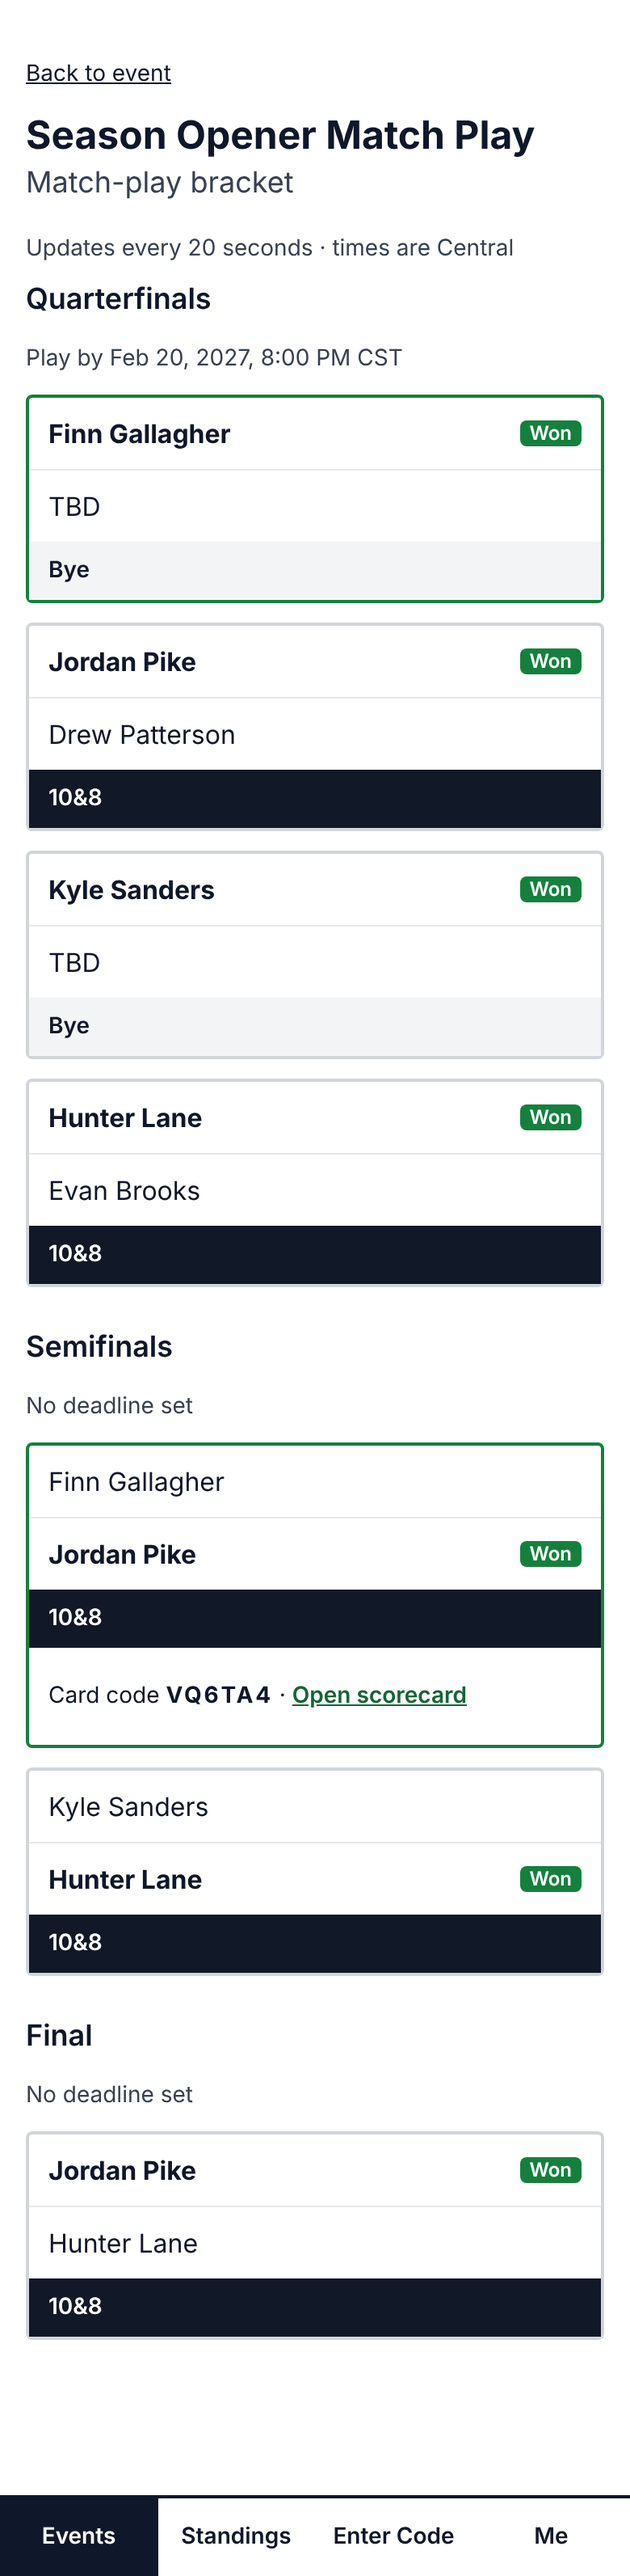
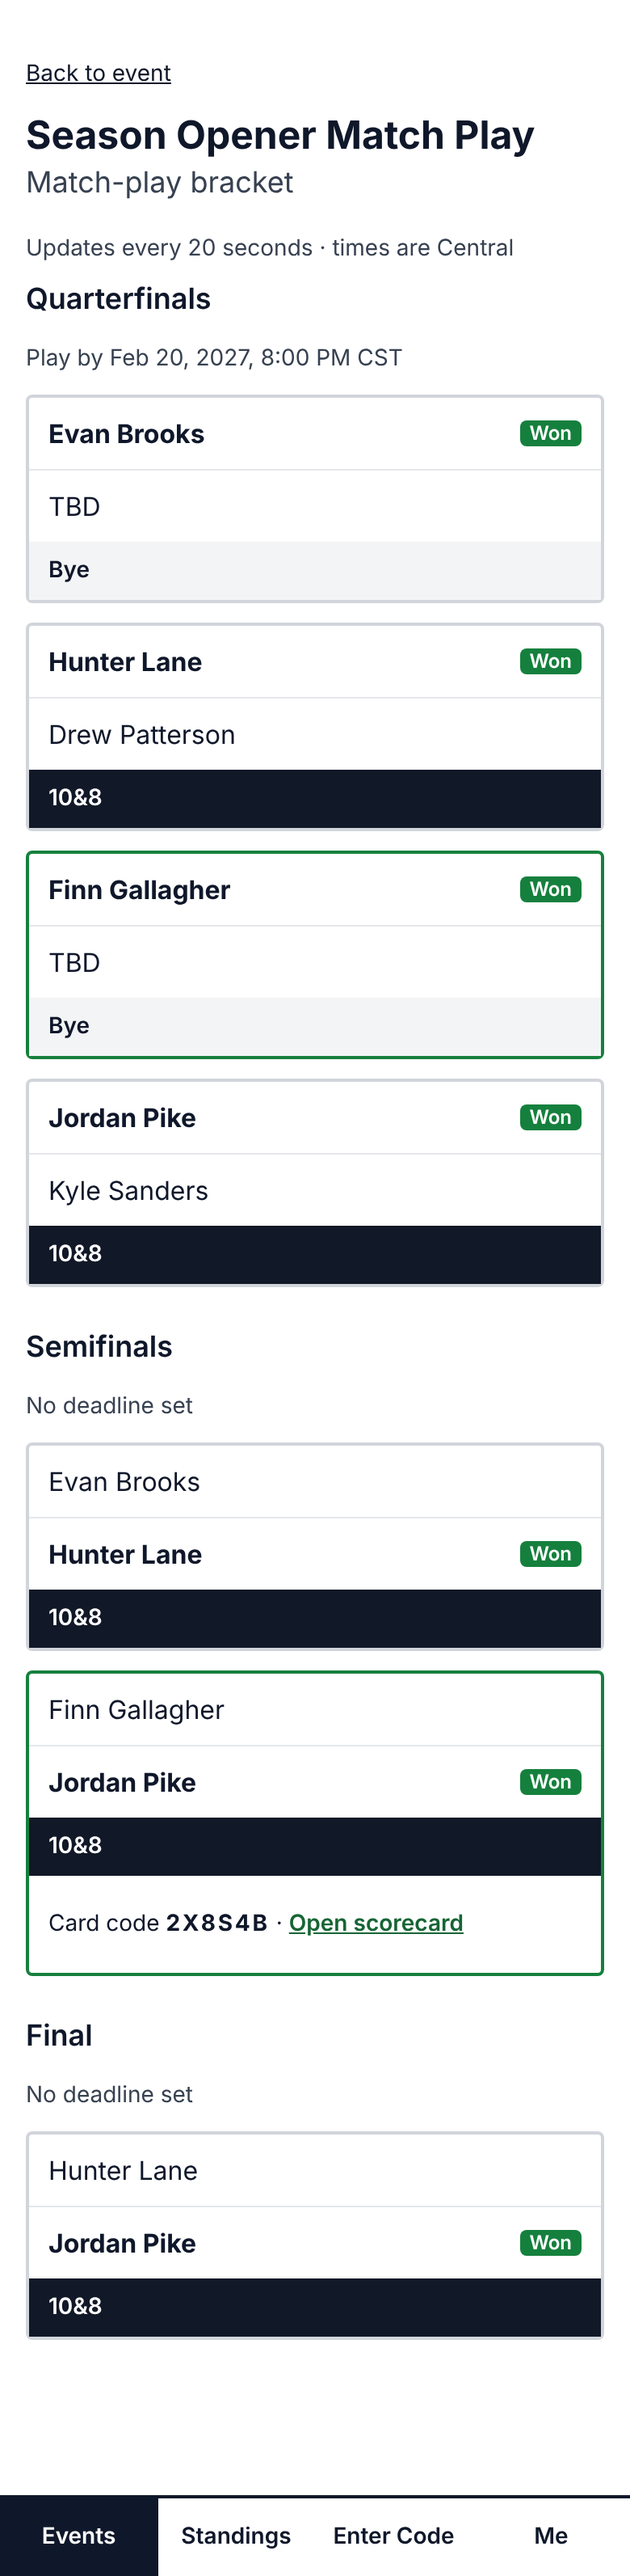
fix(events): confirm season changes, remove orphaned rounds; docs and verification
Claude-Session: https://claude.ai/code/session_0187sESXVTZDKtGNzMULCxre

diff --git a/apps/web/src/actions/events.ts b/apps/web/src/actions/events.ts
@@ -52,6 +52,7 @@ function snapshot(ev: Omit<EventRow, 'id' | 'status'>, rounds: Omit<RoundRow, 'i
  */
 function resultsChanges(current: EventRow, rounds: RoundRow[], e: EventParsed): string[] {
   const out: string[] = [];
+  if (current.season_id !== e.seasonId) out.push('season');
   if (current.event_type !== e.eventType) out.push('event type');
   if ((current.format === 'match_play' ? 'match_play' : 'stroke') !== e.format) out.push('format');
   if ((current.handicap_mode === 'gross' ? 'gross' : 'net') !== e.handicapMode) out.push('handicap mode');
@@ -74,8 +75,10 @@ function resultsChanges(current: EventRow, rounds: RoundRow[], e: EventParsed): 
  * Every field stays editable in every status (mistakes are found late). A save of a non-draft
  * event is audited with before/after. When the event is in_progress or final and a
  * results-affecting field changed (handicap mode, allowance, basis, match strokes, format,
- * event type, a round's tee or kind), the save needs `confirmResultsChange: true`; without it
- * the result is 'needs_confirm' (listing the fields) and nothing is written.
+ * event type, season, a round's tee or kind), the save needs `confirmResultsChange: true`; without it
+ * the result is 'needs_confirm' (listing the fields) and nothing is written. A round the form
+ * removed or renumbered is deleted when it has no groups; with groups the save is refused
+ * ('round_has_groups') before any write.
  */
 export async function saveEvent(input: EventInput): Promise<ActionResult<{ id: string }>> {
   const { player } = await requireCommissioner();
@@ -119,6 +122,26 @@ export async function saveEvent(input: EventInput): Promise<ActionResult<{ id: s
     const current = cur as EventRow;
     const rounds = await loadEventRounds(admin, eventId);
 
+    // Rounds the form no longer has (removed or renumbered): empty ones are deleted below, but one with
+    // groups is refused up front, before any write, so a round with a tee sheet is never orphaned.
+    const keptNumbers = new Set(e.rounds.map((r) => r.roundNumber));
+    const removed = rounds.filter((r) => !keptNumbers.has(r.round_number));
+    if (removed.length) {
+      const { data: grouped, error: gErr } = await admin
+        .from('groups')
+        .select('id, round_id')
+        .in('round_id', removed.map((r) => r.id));
+      if (gErr) throw new Error(gErr.message);
+      const withGroups = removed.filter((r) => ((grouped ?? []) as { round_id: string }[]).some((g) => g.round_id === r.id));
+      if (withGroups.length) {
+        throw new ActionError(
+          ACT.roundHasGroups,
+          `Round ${withGroups.map((r) => r.round_number).join(', ')} already has groups, so it cannot be removed or renumbered. Remove its groups first.`,
+          withGroups.map((r) => String(r.round_number)),
+        );
+      }
+    }
+
     const changed = resultsChanges(current, rounds, e);
     const live = (RESULTS_STATUSES as readonly string[]).includes(current.status);
     if (live && changed.length && e.confirmResultsChange !== true) {
@@ -140,11 +163,15 @@ export async function saveEvent(input: EventInput): Promise<ActionResult<{ id: s
     if (error) throw new Error(error.message);
     if (!updated) throw new ActionError(ACT.statusConflict, 'Event status changed concurrently; reload and retry');
 
+    if (removed.length) {
+      const { error: dErr } = await admin.from('rounds').delete().in('id', removed.map((r) => r.id));
+      if (dErr) throw new Error(dErr.message);
+    }
     const { error: rErr } = await admin.from('rounds').upsert(roundRows(eventId), { onConflict: 'event_id,round_number' });
     if (rErr) throw new Error(rErr.message);
 
     if (current.status !== 'draft') {
-      const afterRounds = rounds.map((prev) => {
+      const afterRounds = rounds.filter((prev) => keptNumbers.has(prev.round_number)).map((prev) => {
         const r = e.rounds.find((x) => x.roundNumber === prev.round_number);
         if (!r) return prev;
         return { ...prev, tee_id: r.teeId, play_date: r.playDate, kind: effectiveKind(e.format, r.roundNumber, r.kind) };

diff --git a/apps/web/test/events.test.ts b/apps/web/test/events.test.ts
@@ -234,7 +234,7 @@ describe('saveEvent after play starts (in-memory DB)', () => {
     }
     expect(db.tables.rounds!.find((x) => x.round_number === 2)).toMatchObject({ kind: 'stroke' });
   });
-  it('in_progress: name, deadline, dates, season and a new round save without confirmation, audited', async () => {
+  it('in_progress: name, deadline, dates and a new round save without confirmation, audited', async () => {
     seed('in_progress', [openGroup]);
     const r = await saveEvent(
       form({
@@ -261,6 +261,44 @@ describe('saveEvent after play starts (in-memory DB)', () => {
     });
     const after = db.tables.audit_log![0]!.after as { rounds: { round_number: number; play_date: string }[] };
     expect(after.rounds.find((x) => x.round_number === 2)?.play_date).toBe('2027-04-18');
+  });
+  it('in_progress/final: changing the season needs confirmation like the other results fields', async () => {
+    const SEASON2 = '66666666-6666-4666-8666-666666666666';
+    for (const status of ['in_progress', 'final']) {
+      seed(status, [openGroup]);
+      const r = await saveEvent(form({ seasonId: SEASON2 }));
+      expect(r).toMatchObject({ ok: false, code: ACT.needsConfirm });
+      expect((r as { fields: string[] }).fields).toContain('season');
+      expect(db.writes).toEqual([]);
+      await expect(saveEvent(form({ seasonId: SEASON2, confirmResultsChange: true }))).resolves.toMatchObject({ ok: true });
+      expect(ev()).toMatchObject({ season_id: SEASON2 });
+      expect(db.tables.audit_log![0]).toMatchObject({ after: { results_changed: ['season'], confirmed_results_change: true } });
+    }
+    seed('published'); // before play starts, a season change is free
+    await expect(saveEvent(form({ seasonId: SEASON2 }))).resolves.toMatchObject({ ok: true });
+  });
+  it('renumbering or removing a round without groups deletes the old row; with groups it is refused and nothing is written', async () => {
+    seed('published', [openGroup]); // group is on round 1
+    const renumbered = [
+      { roundNumber: 1, teeId: tee, playDate: '2027-04-10', kind: 'stroke' as const },
+      { roundNumber: 3, teeId: tee, playDate: '2027-04-17', kind: 'match' as const },
+    ];
+    await expect(saveEvent(form({ rounds: renumbered }))).resolves.toMatchObject({ ok: true });
+    expect(db.tables.rounds!.map((r) => r.round_number).sort()).toEqual([1, 3]);
+    expect(db.tables.rounds!.some((r) => r.id === ROUND2)).toBe(false);
+    expect(db.tables.audit_log![0]!.after).toMatchObject({ rounds: [{ round_number: 1 }, { round_number: 3 }] });
+
+    seed('published', [openGroup]);
+    const dropRound1 = [{ roundNumber: 2, teeId: tee, playDate: '2027-04-17', kind: 'match' as const }];
+    const r = await saveEvent(form({ rounds: dropRound1 }));
+    expect(r).toMatchObject({ ok: false, code: ACT.roundHasGroups });
+    expect(db.writes).toEqual([]);
+    expect(db.tables.rounds).toHaveLength(2);
+  });
+  it('a draft event drops a removed round that has no groups', async () => {
+    seed('draft');
+    await expect(saveEvent(form({ rounds: [{ roundNumber: 1, teeId: tee, playDate: '2027-04-10', kind: 'stroke' }] }))).resolves.toMatchObject({ ok: true });
+    expect(db.tables.rounds).toHaveLength(1);
   });
   it('a signed card on a registration_closed event does not require confirmation', async () => {
     seed('registration_closed', [signedGroup]);

diff --git a/apps/web/test/courseLookupUi.test.tsx b/apps/web/test/courseLookupUi.test.tsx
@@ -36,8 +36,8 @@ afterEach(cleanup);
 async function searchAndPick() {
   fireEvent.change(screen.getByLabelText('Course search'), { target: { value: 'cherokee' } });
   fireEvent.click(screen.getByText('Search'));
-  fireEvent.click(await screen.findByText('Cherokee Ridge Country Club'));
-  await screen.findByLabelText('Import Blue');
+  fireEvent.click(await screen.findByText('Cherokee Ridge Country Club', {}, { timeout: 8000 }));
+  await screen.findByLabelText('Import Blue', {}, { timeout: 8000 });
 }
 
 describe('course lookup', () => {
@@ -97,7 +97,7 @@ describe('course lookup', () => {
     fireEvent.click(screen.getByText('Add selected tees'));
     fireEvent.click(screen.getByText('Replace numbers'));
     fireEvent.click(screen.getByText('Save course'));
-    await screen.findByRole('alertdialog');
+    await screen.findByRole('alertdialog', {}, { timeout: 8000 });
   });
 
   it('shows a lookup error (not set up) without breaking the form', async () => {
@@ -105,7 +105,7 @@ describe('course lookup', () => {
     render(<CourseForm initial={empty} />);
     fireEvent.change(screen.getByLabelText('Course search'), { target: { value: 'cher' } });
     fireEvent.click(screen.getByText('Search'));
-    await screen.findByText('Course lookup is not set up.');
+    await screen.findByText('Course lookup is not set up.', {}, { timeout: 8000 });
     expect(screen.getByText('Save course')).toBeTruthy();
   });
 });

diff --git a/apps/web/src/lib/actionCodes.ts b/apps/web/src/lib/actionCodes.ts
@@ -21,6 +21,8 @@ export const ACT = {
   statusConflict: 'status_conflict',
   /** setEventStatus(..., 'final'): finalize through finalizeEvent, which awards points. */
   useFinalize: 'use_finalize',
+  /** saveEvent: a round the form removes or renumbers already has groups; remove the groups first. */
+  roundHasGroups: 'round_has_groups',
   /** saveEvent / saveCourse: the change affects results already recorded; resend with confirmResultsChange: true. */
   needsConfirm: 'needs_confirm',
   // registration

diff --git a/docs/KNOWN-ISSUES.md b/docs/KNOWN-ISSUES.md
@@ -2,25 +2,17 @@
 
 Collected from the step-by-step reviews and the final whole-build review.
 Nothing here blocks running an event; the first list should be done before the app goes live.
+(Login rate-limit answers, the `APP_URL` redirect origin, the scorecard offline cache, the event season confirm
+and orphaned round rows were fixed in the course-lookup hardening pass.)
 
 ## Before the app goes live (small hardening)
 
-- Login: a second link request within about a minute shows a different error for roster emails
-  than for unknown ones, which reveals who is on the roster. Answer neutrally on rate-limit errors
-  too, and add a small per-IP limit.
-- Login: the magic-link redirect address is built from request headers. Build it from `APP_URL`,
-  and keep Supabase's redirect allow-list exact (no wildcards).
-- Scorecard offline cache: the saved page keeps the logged-in tab bar after logout (links only;
-  pages behind them are still checked). The cache is never pruned and can store a "no group has
-  that code" page.
-- Changing an event's season on a finished event is not covered by the confirm step.
-- Renumbering a round on the event form leaves the old round row behind.
 - Check the seeded FedExCup points table against the PGA Tour's published table.
 
 ## Can wait (reviewers judged these low risk at tour scale)
 
 - Task 7: minor (deferred): visibility helper functions executable by authenticated (oracle, low risk); seed CASE simplification; groups column-grant comment.
-- Task 8: minor (deferred): linkPlayerByEmail concurrent no-op returns ok; shouldCreateUser:true creates stray auth users; requireUser select('*') pulls pin_hash; /forbidden is 200 not 403; callback redirects use request origin not APP_URL.
+- Task 8: minor (deferred): linkPlayerByEmail concurrent no-op returns ok; shouldCreateUser:true creates stray auth users; requireUser select('*') pulls pin_hash; /forbidden is 200 not 403.
 - Task 10: minor (deferred): savePlayer update on missing id returns ok; last-commissioner check not atomic; applyHandicapUpdates non-atomic + no dup-id check; stale error banner in PlayersAdmin; applyHandicapUpdates test name vs assertion; single-space paste fallback untested.
 - Task 11: minor (deferred): status update + audit insert not atomic.
 - Task 12: minor (deferred): registration-open rule duplicated in page and action; audit insert non-atomic; eq mock ignores args.
@@ -31,4 +23,5 @@ Nothing here blocks running an event; the first list should be done before the a
 - Task 16: minor (deferred): never-started/DNF player blocks "Advancing" markers (T17 closePlayIn decides the real cut); "Net" header → "Net to par"; scores query unbounded (1000-row cap ≈56 players); no Live.tsx component test; poll while tab hidden.
 - Task 17: minor (deferred): concurrent forfeit+card-result restore can null the winner's label (skip restore on alreadyDecided / guard it); draw repair has no UI button (BracketAdmin hides Draw when drawn); reopen-guard narrow race; awardForfeit doesn't check deadline passed; event-form pre-made rounds unused for matches.
 - Task 18: minor (deferred): multi-round stroke event with an empty later round finalizes with 0 awards (should refuse); saveEventTypePoints lacks 2-decimal check; award writes non-transactional; standings query 1000-row cap; missing major row falls back to 500 table (label/flag).
-- Task 19: minor (deferred): orphan auth.users for non-roster emails (shouldCreateUser); publicOrigin could prefer APP_URL in production.
+- Task 19: minor (deferred): orphan auth.users for non-roster emails (shouldCreateUser).
+- Course lookup / hardening pass: the per-IP sign-in limit is in memory per server instance (blunts bursts only; Supabase's email limit is the backstop); the scorecard worker prunes old `/_next/static` files when a scorecard page sends its list, not at activate (it cannot know the build then); a looked-up tee with a missing value shows 0 in the form until fixed.
